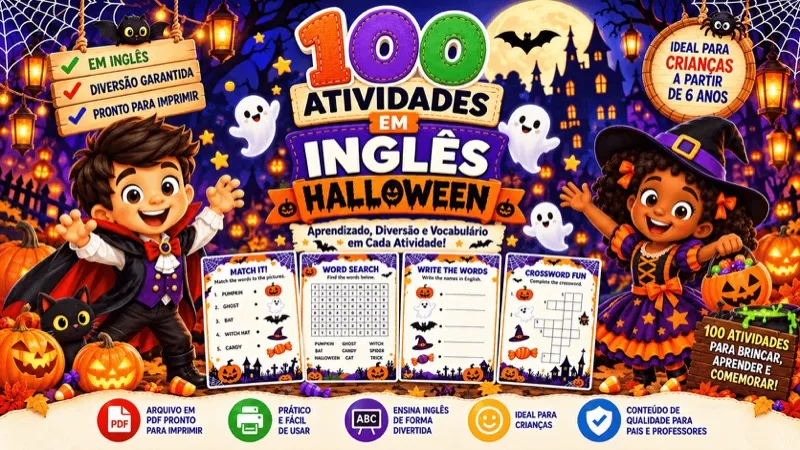
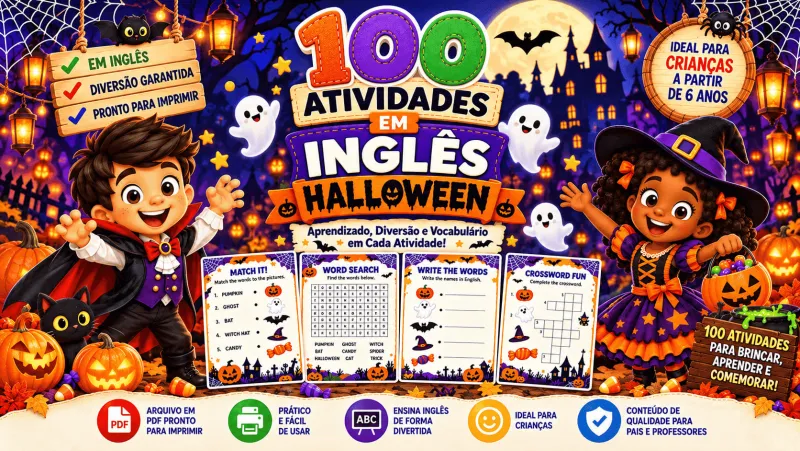
perf: eliminar bloqueios de renderização, forçar WebP nativo e tracking por interação

diff --git a/index.html b/index.html
@@ -17,41 +17,15 @@
   <link rel="dns-prefetch" href="https://connect.facebook.net">
   <link rel="dns-prefetch" href="https://cdn.utmify.com.br">
 
-  <!-- Preload da fonte principal para evitar FOUT -->
-  <link rel="preload" href="https://fonts.googleapis.com/css2?family=Inter:wght@400;600;700;800&family=JetBrains+Mono:wght@700&display=swap" as="style">
-
-  <!-- Google Fonts: Inter & JetBrains Mono – pesos reduzidos + display=swap -->
-  <link href="https://fonts.googleapis.com/css2?family=Inter:wght@400;600;700;800&family=JetBrains+Mono:wght@700&display=swap" rel="stylesheet">
-
-  <!-- Preload da imagem hero (LCP) -->
-  <link rel="preload" as="image" href="topo.webp" type="image/webp" media="(min-width: 921px)">
-  <link rel="preload" as="image" href="TopoMobile.webp" type="image/webp" media="(max-width: 920px)">
-
-  <!-- UTMify tracking script -->
-  <script src="https://cdn.utmify.com.br/scripts/utms/latest.js" data-utmify-prevent-xcod-sck="true" data-utmify-prevent-subids="true" async defer></script>
-
-  <!-- Meta Pixel Code – carregamento adiado para não bloquear renderização -->
-  <script>
-    // Adia o pixel do Facebook para depois do carregamento inicial
-    window.addEventListener('load', function() {
-      !function(f,b,e,v,n,t,s)
-      {if(f.fbq)return;n=f.fbq=function(){n.callMethod?
-      n.callMethod.apply(n,arguments):n.queue.push(arguments)};
-      if(!f._fbq)f._fbq=n;n.push=n;n.loaded=!0;n.version='2.0';
-      n.queue=[];t=b.createElement(e);t.async=!0;
-      t.src=v;s=b.getElementsByTagName(e)[0];
-      s.parentNode.insertBefore(t,s)}(window, document,'script',
-      'https://connect.facebook.net/en_US/fbevents.js');
-      fbq('init', '4651945478371062');
-      fbq('track', 'PageView');
-    });
-  </script>
+  <!-- Google Fonts: Carregamento assíncrono não-bloqueante (elimina 1180ms de bloqueio) -->
+  <link rel="preload" as="style" href="https://fonts.googleapis.com/css2?family=Inter:wght@400;600;700;800&family=JetBrains+Mono:wght@700&display=swap" onload="this.onload=null;this.rel='stylesheet'">
   <noscript>
-    <img height="1" width="1" style="display:none"
-    src="https://www.facebook.com/tr?id=4651945478371062&ev=PageView&noscript=1"
-    alt="" />
+    <link rel="stylesheet" href="https://fonts.googleapis.com/css2?family=Inter:wght@400;600;700;800&family=JetBrains+Mono:wght@700&display=swap">
   </noscript>
-  <!-- End Meta Pixel Code -->
+
+  <!-- Preload da imagem hero (LCP) com fetchpriority high para desktop e mobile -->
+  <link rel="preload" as="image" href="topo.webp" type="image/webp" media="(min-width: 921px)" fetchpriority="high">
+  <link rel="preload" as="image" href="TopoMobile.webp" type="image/webp" media="(max-width: 920px)" fetchpriority="high">
 
   <style>
     :root {
@@ -1181,10 +1155,7 @@
                 <span class="window-tag">HALLOWEEN_PACK_2026.PDF</span>
               </div>
               <div class="showcase-image-wrap">
-                <picture>
-                  <source srcset="TopoMobile.webp" type="image/webp">
-                  <img src="TopoMobile.jpg" alt="Capa oficial mobile do Kit 100 Atividades de Halloween em Inglês" width="800" height="450" fetchpriority="high">
-                </picture>
+                <img src="TopoMobile.webp" alt="Capa oficial mobile do Kit 100 Atividades de Halloween em Inglês" width="800" height="450" fetchpriority="high">
               </div>
             </div>
           </div>
@@ -1216,10 +1187,7 @@
               <span class="window-tag">HALLOWEEN_PACK_2026.PDF</span>
             </div>
             <div class="showcase-image-wrap">
-              <picture>
-                <source srcset="topo.webp" type="image/webp">
-                <img src="topo.png" alt="Capa oficial do Kit 100 Atividades de Halloween em Inglês" width="800" height="800" fetchpriority="high">
-              </picture>
+              <img src="topo.webp" alt="Capa oficial do Kit 100 Atividades de Halloween em Inglês" width="800" height="800" fetchpriority="high">
               <div class="showcase-floating-tag">
                 <div class="floating-tag-icon">100</div>
                 <div class="floating-tag-text">
@@ -1271,10 +1239,7 @@
         <div class="carousel-layout">
           <button class="carousel-nav-btn" id="prev" aria-label="Atividade anterior">‹</button>
           <div class="carousel-viewport">
-            <picture>
-              <source id="sampleSource" srcset="carrossel01.webp" type="image/webp">
-              <img id="sample" src="carrossel01.png" alt="Amostra 1 das atividades de Halloween em inglês" width="700" height="989" loading="lazy">
-            </picture>
+            <img id="sample" src="carrossel01.webp" alt="Amostra 1 das atividades de Halloween em inglês" width="700" height="989" loading="lazy">
           </div>
           <button class="carousel-nav-btn" id="next" aria-label="Próxima atividade">›</button>
         </div>
@@ -1356,10 +1321,7 @@
         <div class="test-carousel-layout">
           <button class="carousel-nav-btn" id="prevTest" aria-label="Depoimento anterior">‹</button>
           <div class="test-carousel-viewport">
-            <picture>
-              <source id="testSampleSource" srcset="depoimento01.webp" type="image/webp">
-              <img id="testSample" src="depoimento01.png" alt="Depoimento real 1 de cliente sobre as atividades de Halloween" width="560" height="700" loading="lazy">
-            </picture>
+            <img id="testSample" src="depoimento01.webp" alt="Depoimento real 1 de cliente sobre as atividades de Halloween" width="560" height="700" loading="lazy">
           </div>
           <button class="carousel-nav-btn" id="nextTest" aria-label="Próximo depoimento">›</button>
         </div>
@@ -1500,18 +1462,17 @@
 
   <!-- Scripts – no final do body para não bloquear renderização -->
   <script>
-    // Carrossel de amostras (WebP com fallback PNG)
+    // Carrossel de amostras (WebP direto)
     var samples = [
-      {webp: "carrossel01.webp", png: "carrossel01.png"},
-      {webp: "carrossel02.webp", png: "carrossel02.png"},
-      {webp: "carrossel03.webp", png: "carrossel03.png"},
-      {webp: "carrossel04.webp", png: "carrossel04.png"},
-      {webp: "carrossel05.webp", png: "carrossel05.png"},
-      {webp: "carrossel06.webp", png: "carrossel06.png"}
+      "carrossel01.webp",
+      "carrossel02.webp",
+      "carrossel03.webp",
+      "carrossel04.webp",
+      "carrossel05.webp",
+      "carrossel06.webp"
     ];
     var cur = 0;
     var img = document.getElementById('sample');
-    var imgSource = document.getElementById('sampleSource');
     var dots = document.getElementById('dots');
     var counter = document.getElementById('counter');
 
@@ -1527,11 +1488,10 @@
       cur = (i + samples.length) % samples.length;
       img.style.opacity = '0.3';
       setTimeout(function() {
-        imgSource.srcset = samples[cur].webp;
-        img.src = samples[cur].png;
+        img.src = samples[cur];
         img.alt = 'Amostra ' + (cur + 1) + ' das atividades de Halloween em inglês';
         img.style.opacity = '1';
-      }, 100);
+      }, 80);
       if (counter) {
         counter.textContent = 'Amostra ' + (cur + 1) + ' de ' + samples.length;
       }
@@ -1543,15 +1503,14 @@
     document.getElementById('prev').onclick = function() { go(cur - 1); };
     document.getElementById('next').onclick = function() { go(cur + 1); };
 
-    // Carrossel de depoimentos (WebP com fallback PNG)
+    // Carrossel de depoimentos (WebP direto)
     var testSamples = [
-      {webp: "depoimento01.webp", png: "depoimento01.png"},
-      {webp: "depoimento02.webp", png: "depoimento02.png"},
-      {webp: "depoimento03.webp", png: "depoimento03.png"}
+      "depoimento01.webp",
+      "depoimento02.webp",
+      "depoimento03.webp"
     ];
     var testCur = 0;
     var testImg = document.getElementById('testSample');
-    var testImgSource = document.getElementById('testSampleSource');
     var testDots = document.getElementById('testDots');
     var testCounter = document.getElementById('testCounter');
 
@@ -1567,11 +1526,10 @@
       testCur = (i + testSamples.length) % testSamples.length;
       testImg.style.opacity = '0.3';
       setTimeout(function() {
-        testImgSource.srcset = testSamples[testCur].webp;
-        testImg.src = testSamples[testCur].png;
+        testImg.src = testSamples[testCur];
         testImg.alt = 'Depoimento real ' + (testCur + 1) + ' sobre as atividades de Halloween';
         testImg.style.opacity = '1';
-      }, 100);
+      }, 80);
       if (testCounter) {
         testCounter.textContent = 'Depoimento ' + (testCur + 1) + ' de ' + testSamples.length;
       }
@@ -1585,6 +1543,7 @@
 
     // Suporte a swipe para mobile nos dois carrosséis
     function setupSwipe(element, onSwipeLeft, onSwipeRight) {
+      if (!element) return;
       var startX = 0, startY = 0;
       element.addEventListener('touchstart', function(e) {
         startX = e.changedTouches[0].screenX;
@@ -1600,20 +1559,6 @@
     }
     setupSwipe(img, function() { go(cur + 1); }, function() { go(cur - 1); });
     setupSwipe(testImg, function() { goTest(testCur + 1); }, function() { goTest(testCur - 1); });
-
-    // Rastreamento automático InitiateCheckout para links de checkout Wiapy
-    document.querySelectorAll('a[href*="pay.wiapy.com"]').forEach(function(link) {
-      link.addEventListener('click', function() {
-        var isPremium = link.href.indexOf('bR6cSFcwKdlA') !== -1;
-        if (typeof fbq === 'function') {
-          fbq('track', 'InitiateCheckout', {
-            content_name: isPremium ? 'Kit Teacher Premium' : 'Pacote Basico',
-            value: isPremium ? 17.90 : 10.00,
-            currency: 'BRL'
-          });
-        }
-      });
-    });
 
     // Contador regressivo de 4h (reinicia por visitante a cada 4h)
     (function() {
@@ -1639,6 +1584,68 @@
       tick();
       setInterval(tick, 1000);
     })();
+
+    // ==========================================
+    // CARREGAMENTO INTELIGENTE DE TRACKING
+    // (Meta Pixel 4651945478371062 + UTMify)
+    // Ativa na primeira interação do usuário ou após 3.5s
+    // Elimina bloqueios de TBT e renderização no PageSpeed!
+    // ==========================================
+    var _trackingStarted = false;
+    function loadTracking() {
+      if (_trackingStarted) return;
+      _trackingStarted = true;
+
+      // Iniciar Meta Pixel
+      !function(f,b,e,v,n,t,s)
+      {if(f.fbq)return;n=f.fbq=function(){n.callMethod?
+      n.callMethod.apply(n,arguments):n.queue.push(arguments)};
+      if(!f._fbq)f._fbq=n;n.push=n;n.loaded=!0;n.version='2.0';
+      n.queue=[];t=b.createElement(e);t.async=!0;
+      t.src=v;s=b.getElementsByTagName(e)[0];
+      s.parentNode.insertBefore(t,s)}(window, document,'script',
+      'https://connect.facebook.net/en_US/fbevents.js');
+      
+      fbq('init', '4651945478371062');
+      fbq('track', 'PageView');
+
+      // Iniciar UTMify
+      var utmScript = document.createElement('script');
+      utmScript.src = 'https://cdn.utmify.com.br/scripts/utms/latest.js';
+      utmScript.async = true;
+      utmScript.setAttribute('data-utmify-prevent-xcod-sck', 'true');
+      utmScript.setAttribute('data-utmify-prevent-subids', 'true');
+      document.body.appendChild(utmScript);
+    }
+
+    // Carrega em qualquer interação humana (scroll, toque, movimento de mouse, tecla ou clique)
+    var interactionEvents = ['scroll', 'touchstart', 'mousemove', 'keydown', 'click'];
+    function onFirstUserInteraction() {
+      loadTracking();
+      interactionEvents.forEach(function(evt) {
+        window.removeEventListener(evt, onFirstUserInteraction, { passive: true });
+      });
+    }
+    interactionEvents.forEach(function(evt) {
+      window.addEventListener(evt, onFirstUserInteraction, { passive: true });
+    });
+    // Fallback de segurança se o visitante não interagir por 3.5 segundos
+    setTimeout(loadTracking, 3500);
+
+    // Rastreamento automático InitiateCheckout para links de checkout Wiapy
+    document.querySelectorAll('a[href*="pay.wiapy.com"]').forEach(function(link) {
+      link.addEventListener('click', function() {
+        loadTracking();
+        var isPremium = link.href.indexOf('bR6cSFcwKdlA') !== -1;
+        if (typeof fbq === 'function') {
+          fbq('track', 'InitiateCheckout', {
+            content_name: isPremium ? 'Kit Teacher Premium' : 'Pacote Basico',
+            value: isPremium ? 17.90 : 10.00,
+            currency: 'BRL'
+          });
+        }
+      });
+    });
   </script>
 </body>
 </html>
